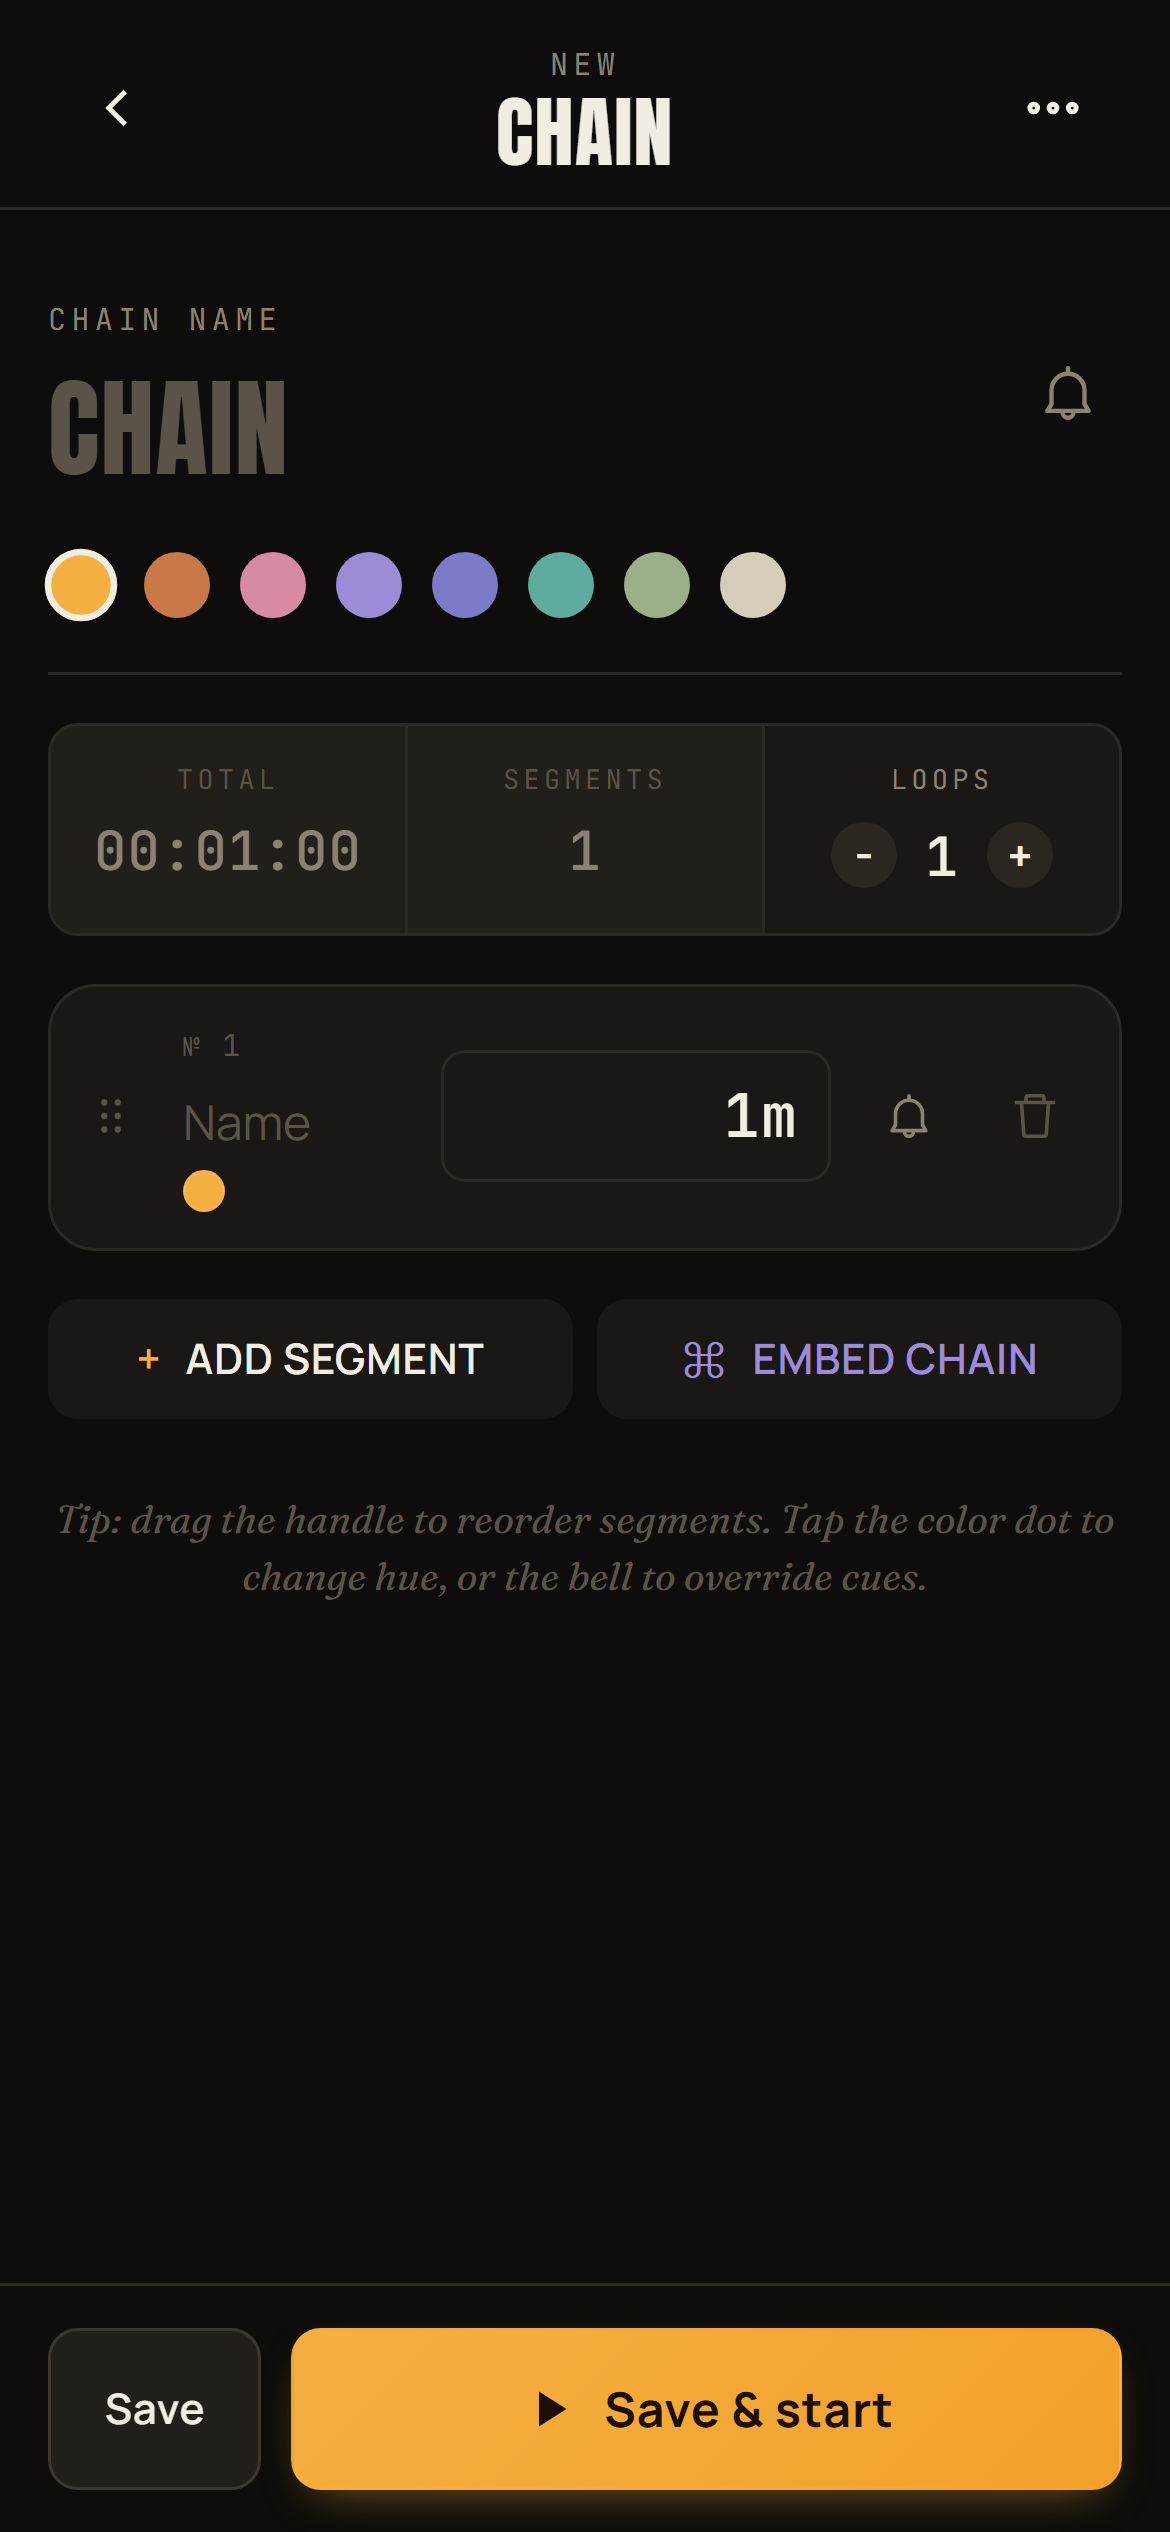
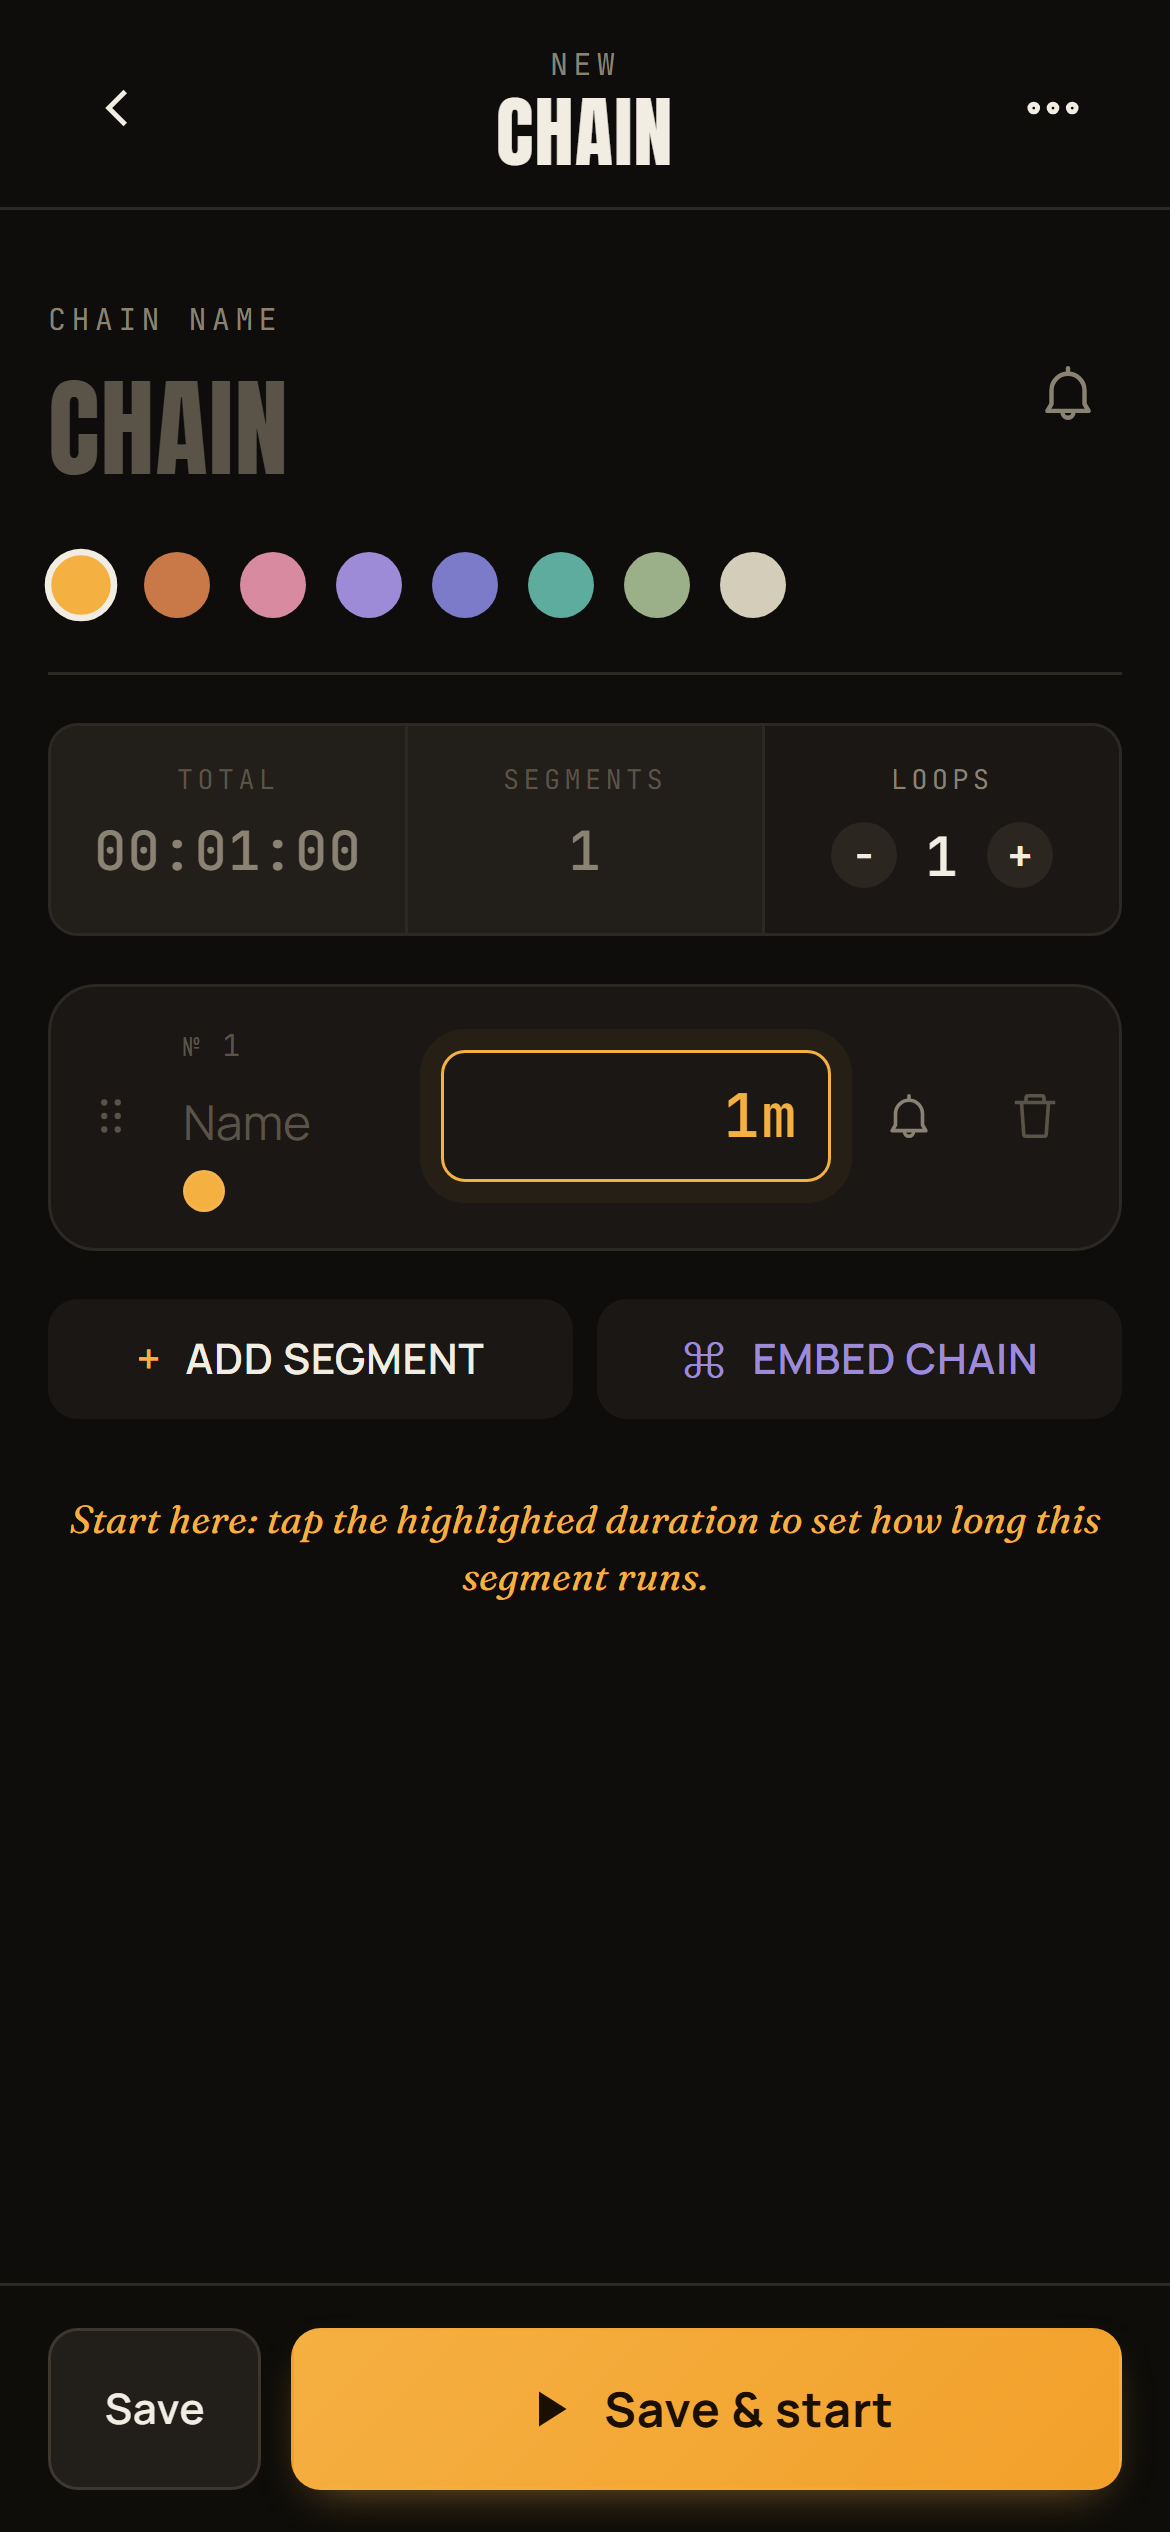
v1.4.13 -- browser voice language, duration hint, ring-until-dismissed
Web speech now speaks in the USER'S language. Per spec an utterance with
no `lang` inherits the DOCUMENT's (<html lang="en">), not the user
agent's -- so every PWA user got an English voice regardless of browser
or OS language, and non-English segment names were read with English
pronunciation. Voice.speak now sets `u.lang` from navigator.language.

This was the web path lagging the native one, and that asymmetry is now
verified rather than assumed. On-device experiment (Android 14
emulator): with the system locale at en-US the engine resolves to
"en-US-language / en_US"; set persist.sys.locale=fr-FR and it resolves
to "fr-FR-language / fr_FR" -- with no setLanguage() call anywhere in
our code. Synthesising the same text through the real prerender path
under each locale produced genuinely different audio (94,130 bytes /
md5 446cad06... vs 106,982 bytes / md5 b8a4d117...). Worth recording
that the `tts_default_locale` secure setting does NOT drive this
(changing it moved nothing); the SYSTEM locale does.

Also: first-run pointer at the duration control. Beta feedback was that
a new chain opens on a dozen controls while the one thing everybody
wants first is the duration, and finding it costs a beat of thought. We
point at it -- amber ring on the first segment's duration button plus a
tip line that says what to do -- rather than auto-opening the picker,
which would cover the segment list some users want to build out first.
[…]

Changed region(s): [[0.0615, 0.5928, 0.9538, 0.6552], [0.6154, 0.4056, 0.6769, 0.468], [0.3692, 0.4368, 0.4, 0.468]]

diff --git a/js/app.js b/js/app.js
@@ -15,7 +15,7 @@ const STORAGE_KEY = 'chained-timers/v1';
 // version field. Kept as a literal here (not injected via <script>) so
 // the file is self-contained when opened directly in a browser during
 // development. Update by hand if editing this file outside the build.
-const APP_VERSION = '1.4.12';
+const APP_VERSION = '1.4.13';
 
 // Where "Update available" points on native. Selection order at run time:
 //   1. If the plugin reports the install came from the Play Store, the
@@ -827,11 +827,32 @@ const Voice = {
     try {
       window.speechSynthesis.cancel();
       const u = new SpeechSynthesisUtterance(text);
+      // v1.4.13 — speak in the USER'S language, not the document's.
+      // Per spec an utterance with no `lang` inherits the document's
+      // (<html lang="en">), so every PWA user got an English voice
+      // regardless of their browser or OS language — French segment
+      // names were read with English pronunciation. Native Android has
+      // always followed the device's TTS locale (we never call
+      // setLanguage, so the engine default applies), so this is the web
+      // path catching up to the native one, not a new policy.
+      u.lang = Voice.preferredLang();
       u.rate = 1.0;
       u.pitch = 1.0;
       u.volume = 1.0;
       window.speechSynthesis.speak(u);
     } catch (e) { /* noop */ }
+  },
+
+  // v1.4.13 — BCP-47 tag for web speech. navigator.language is the
+  // browser's own UI language, which is the closest web equivalent of
+  // the device TTS locale that native uses. Falls back through the
+  // languages list, then to English, so a browser that exposes neither
+  // still speaks rather than throwing.
+  preferredLang() {
+    try {
+      const tag = navigator.language || (navigator.languages || [])[0];
+      return (typeof tag === 'string' && tag) ? tag : 'en';
+    } catch { return 'en'; }
   },
 
   // Cached pre-rendered voice paths for the most recent chain. Keyed by
@@ -2153,6 +2174,9 @@ const Editor = {
 
   newChain() {
     this.draftId = null;
+    // Each brand-new chain gets the duration pointer again — it's a
+    // per-chain "where do I start", not a one-time onboarding tip.
+    UI.durationHintUsed = false;
     this.draft = {
       id: uid('c'),
       name: '',
@@ -3316,6 +3340,7 @@ const UI = {
     draft.segments.forEach((seg, idx) => {
       list.appendChild(UI._renderSegmentRow(seg, idx));
     });
+    UI._syncEditorHint();
   },
 
   _renderSegmentRow(seg, idx) {
@@ -3390,6 +3415,14 @@ const UI = {
 
       const dur = document.createElement('button');
       dur.className = 'segment-duration';
+      // v1.4.13 — first-run affordance. A brand-new chain opens on a
+      // dozen controls, but the one thing everybody wants first is the
+      // duration; beta feedback was that finding it costs a beat of
+      // thought. So we POINT at it rather than auto-opening the picker
+      // (which would cover the segment list some users want to build
+      // out first). Only on a never-saved chain whose first segment is
+      // still untouched, and it stops as soon as the picker is opened.
+      if (UI._shouldHintDuration(idx, seg)) dur.classList.add('is-hinted');
       // v1.4.8 — same "1h 5m 30s" no-zero-padding format used across
       // the rest of the app. The previous fmtSegDurationHTML style
       // ("01m 00s") wasted characters on unused units and read as
@@ -3443,6 +3476,34 @@ const UI = {
     // drag & drop wiring
     UI._wireDrag(li, handle);
     return li;
+  },
+
+  // v1.4.13 — should the first-run "set the duration" pointer show on
+  // this row? Only for the FIRST segment of a chain that has never been
+  // saved and is still exactly as newChain() created it (default
+  // duration, no name). Editing an existing chain never hints: those
+  // users already know where the control is.
+  durationHintUsed: false,
+  DEFAULT_SEGMENT_SECONDS: 60,
+
+  _shouldHintDuration(idx, seg) {
+    if (UI.durationHintUsed) return false;
+    if (idx !== 0 || !seg || seg.kind === 'subchain') return false;
+    if (Editor.draftId) return false;                       // existing chain
+    if ((seg.name || '').trim()) return false;              // already customised
+    return seg.duration === UI.DEFAULT_SEGMENT_SECONDS;
+  },
+
+  /** Point the editor's tip line at the duration while the hint is up. */
+  _syncEditorHint() {
+    const el = document.getElementById('editor-hint');
+    if (!el) return;
+    const seg = Editor.draft?.segments?.[0];
+    const hinting = !!seg && UI._shouldHintDuration(0, seg);
+    el.classList.toggle('is-pointing', hinting);
+    el.textContent = hinting
+      ? 'Start here: tap the highlighted duration to set how long this segment runs.'
+      : 'Tip: drag the handle to reorder segments. Tap the color dot to change hue, or the bell to override cues.';
   },
 
   renderLibraryStatsOnly() {
@@ -3529,6 +3590,10 @@ const UI = {
   dpickPristine: true,  // first keypress replaces the seed value entirely
 
   openDurationPicker(seg) {
+    // The user has found the duration control — retire the first-run
+    // hint for the rest of this session, whatever value they end up
+    // committing (including leaving it at the default).
+    UI.durationHintUsed = true;
     UI.durationTarget  = seg;
     UI.dpickPristine   = true;
     UI._setDpickFromSeconds(Math.max(0, seg.duration | 0));

diff --git a/index.html b/index.html
@@ -33,8 +33,8 @@
        Google Fonts stylesheet held the WebView white until the DNS or
        HTTP request timed out). Re-generate with:
          node tools/fetch-fonts.mjs -->
-  <link rel="stylesheet" href="./css/fonts.css?v=1.4.12" />
-  <link rel="stylesheet" href="./css/styles.css?v=1.4.12" />
+  <link rel="stylesheet" href="./css/fonts.css?v=1.4.13" />
+  <link rel="stylesheet" href="./css/styles.css?v=1.4.13" />
 </head>
 <body data-view="library">
 
@@ -223,7 +223,7 @@
           </button>
         </div>
 
-        <div class="hint">Tip: drag the handle to reorder segments. Tap the color dot to change hue, or the bell to override cues.</div>
+        <div class="hint" id="editor-hint">Tip: drag the handle to reorder segments. Tap the color dot to change hue, or the bell to override cues.</div>
       </main>
 
       <footer class="editor-footer">
@@ -633,8 +633,8 @@
 
   </div>
 
-  <script src="./js/app.js?v=1.4.12"></script>
+  <script src="./js/app.js?v=1.4.13"></script>
   <!-- Capacitor injects window.Capacitor in native builds; this file is a no-op in browsers -->
-  <script src="./js/native.js?v=1.4.12"></script>
+  <script src="./js/native.js?v=1.4.13"></script>
 </body>
 </html>

diff --git a/css/styles.css b/css/styles.css
@@ -1451,6 +1451,28 @@ body.is-reordering-chains .chain-card:hover { border-color: var(--rule); backgro
   text-align: center;
   padding: 8px 0 4px;
 }
+/* v1.4.13 — while the duration pointer is up, the tip line says what to
+   do rather than listing power-user gestures, and brightens so the two
+   read as one instruction. */
+.hint.is-pointing { color: var(--accent); font-style: normal; }
+
+/* First-run pointer at the duration control: a breathing amber ring.
+   Deliberately an outline pulse rather than a filled highlight — it has
+   to read as "look here", not as an already-active state. */
+.segment-duration.is-hinted {
+  border-color: var(--accent);
+  color: var(--accent);
+  animation: durationHintPulse 1.9s ease-in-out infinite;
+}
+@keyframes durationHintPulse {
+  0%, 100% { box-shadow: 0 0 0 0 rgba(245,176,66,0.45); }
+  50%      { box-shadow: 0 0 0 8px rgba(245,176,66,0); }
+}
+/* Respect a reduced-motion preference: keep the amber emphasis, drop
+   the animation. */
+@media (prefers-reduced-motion: reduce) {
+  .segment-duration.is-hinted { animation: none; box-shadow: 0 0 0 2px rgba(245,176,66,0.35); }
+}
 
 .editor-footer {
   display: grid;

diff --git a/sw.js b/sw.js
@@ -1,5 +1,5 @@
 /* Chained Timers — Service Worker */
-const CACHE = 'chained-timers-v1.4.12';
+const CACHE = 'chained-timers-v1.4.13';
 const ASSETS = [
   './',
   './index.html',
